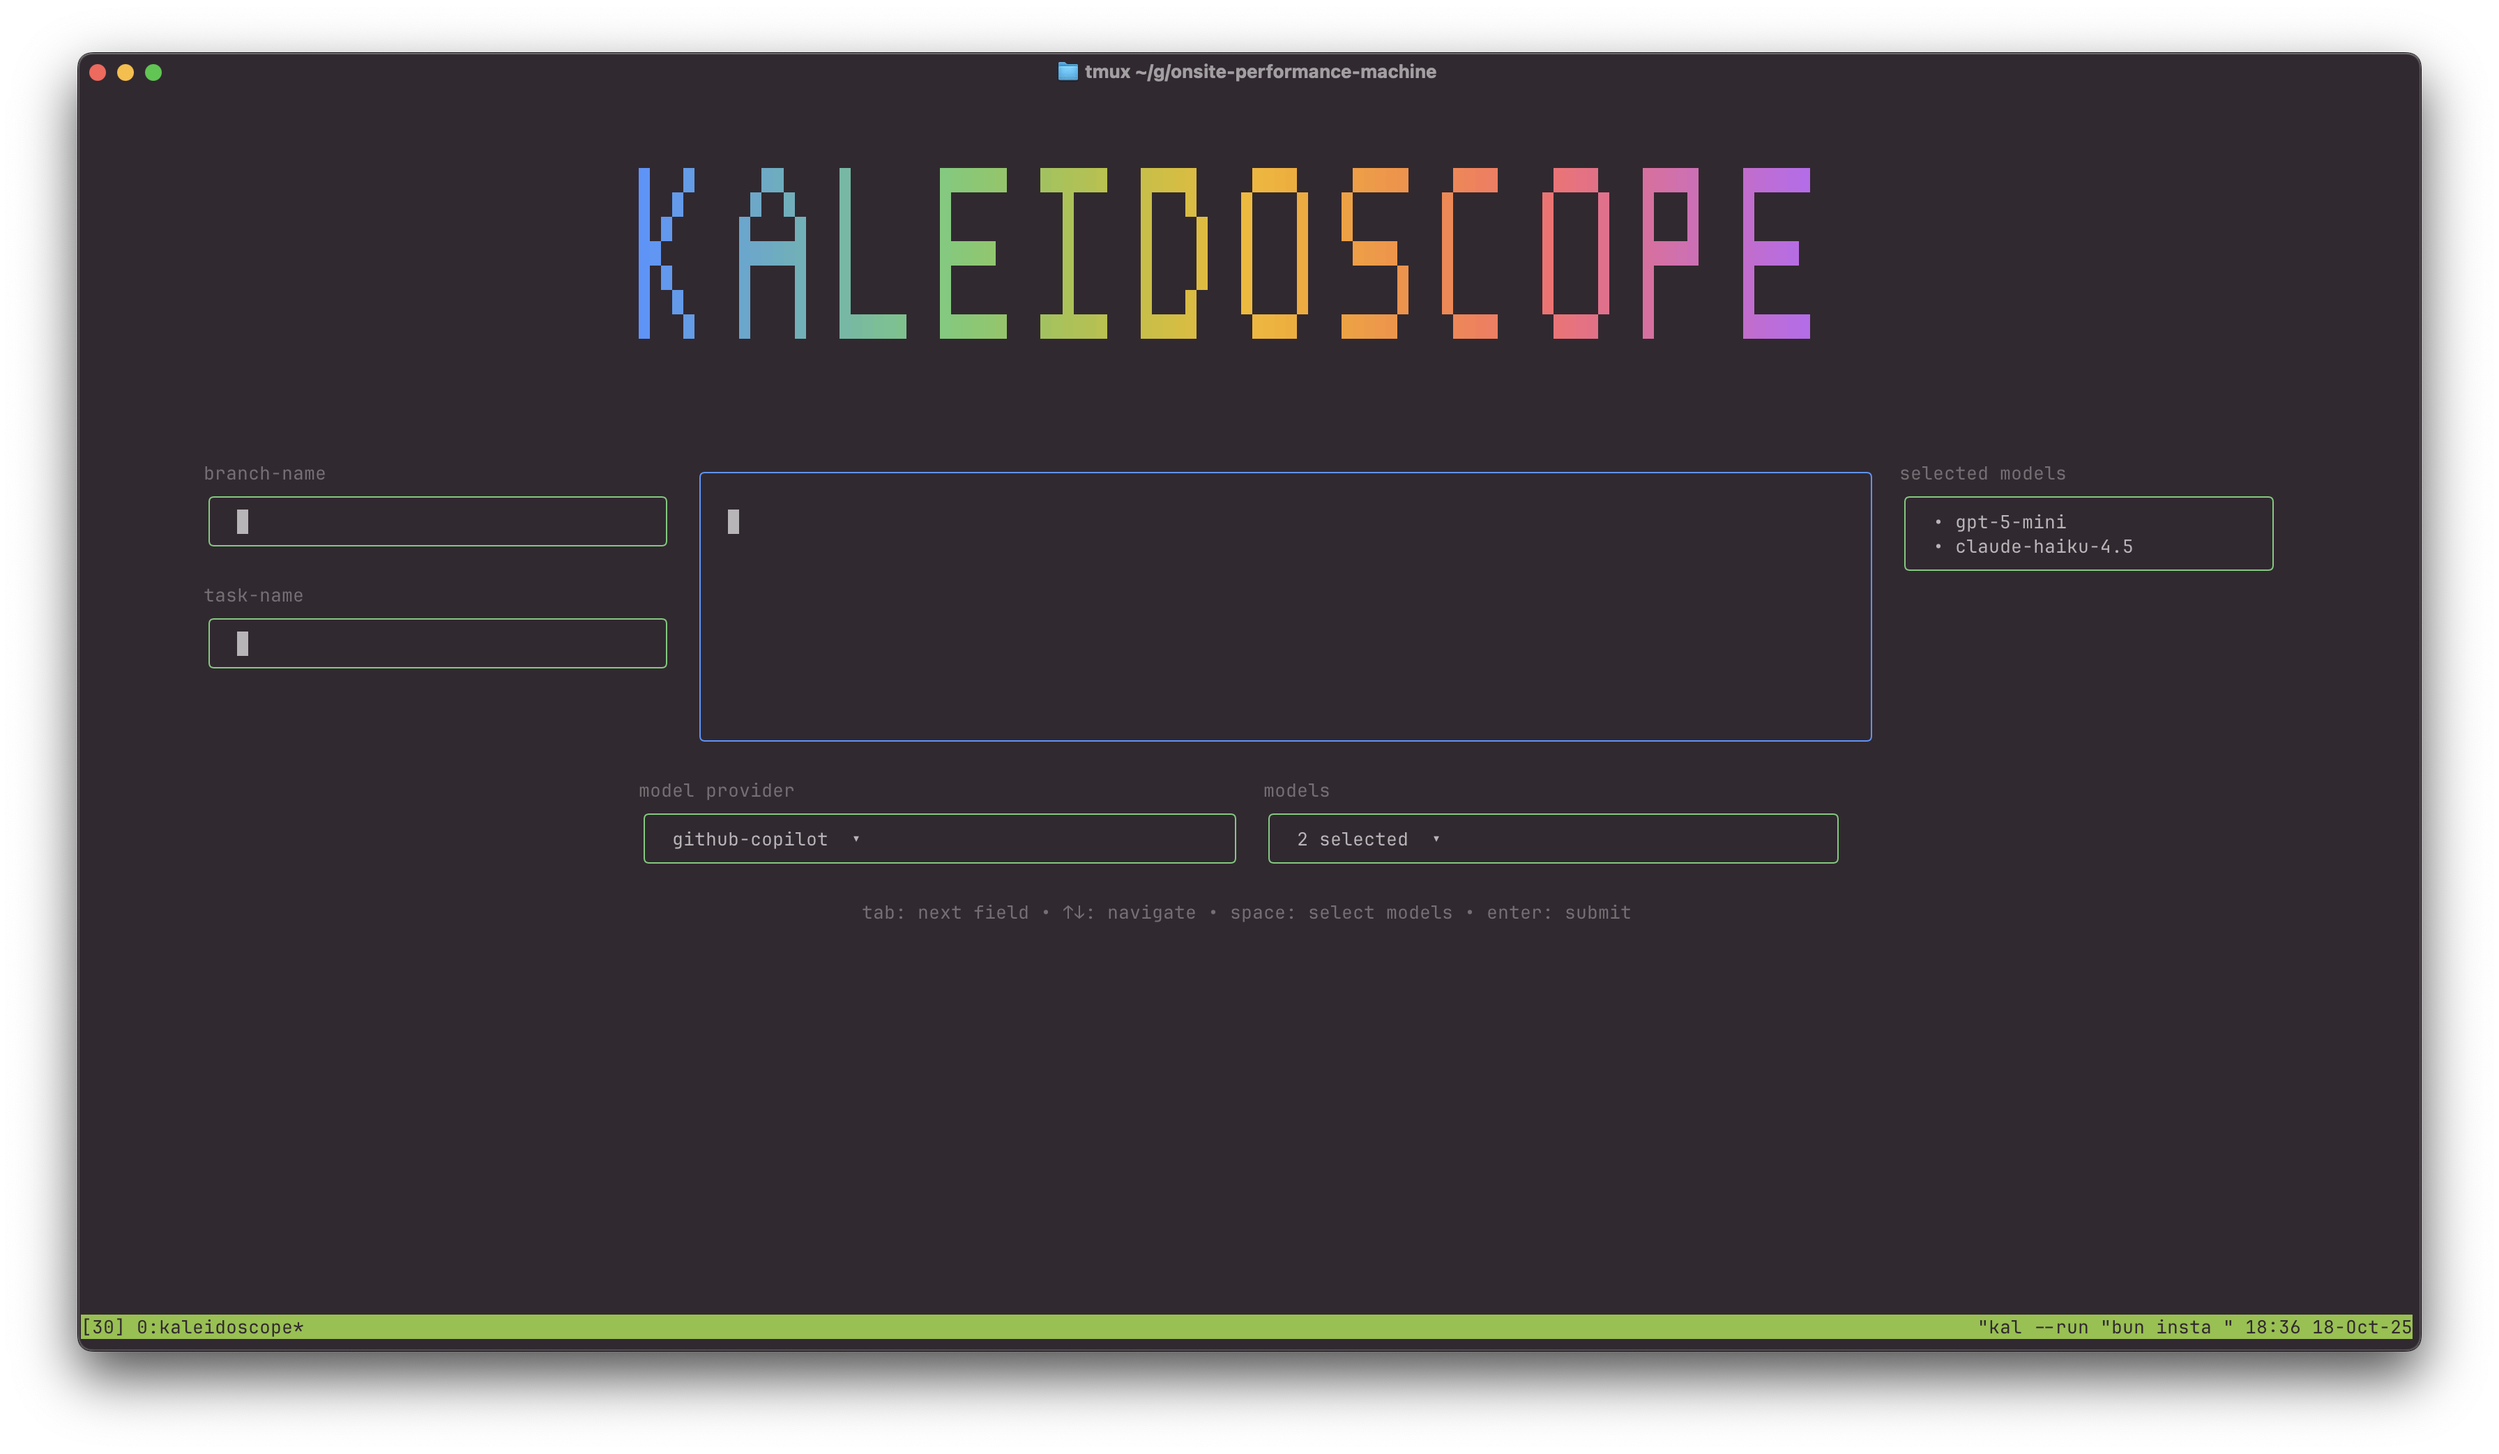
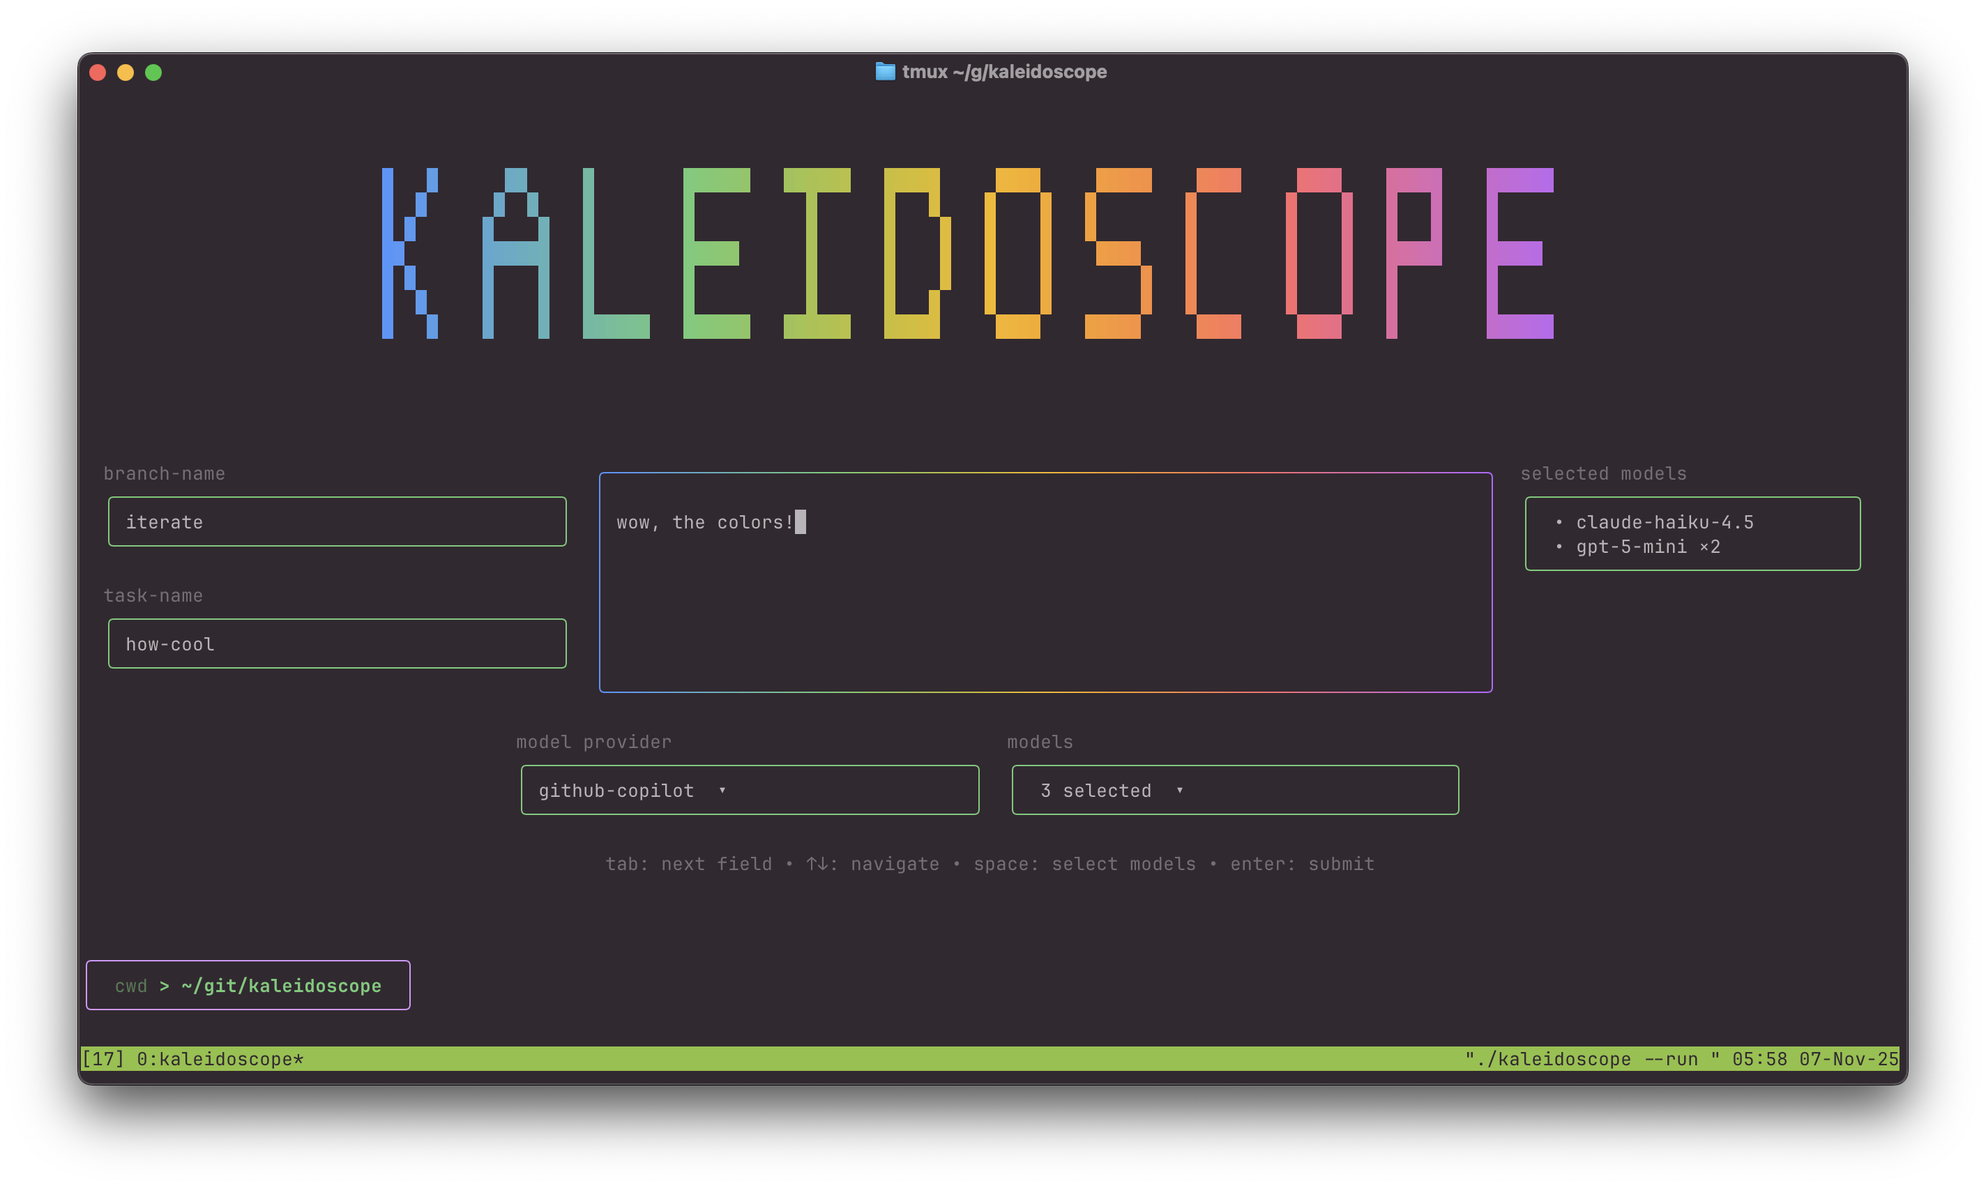
updating readme, adding improved tui picture, .kal data

diff --git a/README.md b/README.md
@@ -35,14 +35,16 @@ brew install paradise-runner/tap/kaleidoscope
 
 ### Basic Usage
 
-Run Kaleidoscope with the required `--run` flag specifying the command to execute after opencode completes:
-
+Kick off kaleidoscope after starting a tmux sessoion. You can use the optional `--run` flag to specify a command to execute after the AI completes:
 ```bash
 # start a new tmux session
 tmux
 
-# run kaleidoscope with your test command
+# run kaleidoscope with your test command to verify functionality for you to see in the panes
 kaleidoscope --run "npm test"
+
+# or run kaleidoscope without a command if you don't know what the run command is
+kaleidoscope
 ```
 
 Let the fireworks begin!
@@ -93,11 +95,9 @@ kaleidoscope --run "npm test" --set-default
 This creates a `.kaleidoscope` file in your current directory with your preferences. The file includes:
 - Default provider
 - Selected models per provider
-- Usage statistics for each model (tracked when using `/next`)
+- Usage statistics for each model (tracked when using `/next` or `/wrap`)
 
 ## Configuration
-
-The `.kaleidoscope` file is a JSON file storing:
 
 ```json
 {
@@ -146,7 +146,7 @@ The `.kaleidoscope` file is a JSON file storing:
 ## How It Works
 
 1. **Setup**: Creates a feature branch from your current branch
-2. **Worktrees**: For each selected model, creates a git worktree in `../<repo>-<branch>-<task>-<model>/`
+2. **Worktrees**: For each selected model, creates a git worktree in `../<repo>-<branch>-<task>-<model>/` to isolate changes
 3. **Execution**: Opens a tmux pane for each worktree and runs `opencode run -m <provider>/<model> <prompt>`
 4. **Iteration**: Allows sending additional prompts to specific models
 5. **Selection**: When you `/next` a model:
@@ -163,7 +163,7 @@ To use Kaleidoscope to help develop itself, you can run:
 ```bash
 kaleidoscope --run "go build . && ./kaleidoscope --run 'echo \"hello world\"'"
 ```
-This command will run Kaleidoscope to help implement changes to its own codebase, and then build the updated binary. The inner `go run main.go --run 'echo "hello world"'` command just spins up a simple test command to verify functionality for you to see in the panes.
+This command will run Kaleidoscope to help implement changes to its own codebase, and then build the updated binary. The inner `go build . && ./kaleidoscope --run 'echo \"hello world\"'` command just spins up a simple test command to verify functionality for you to see in the panes.
 
 ## License
 
